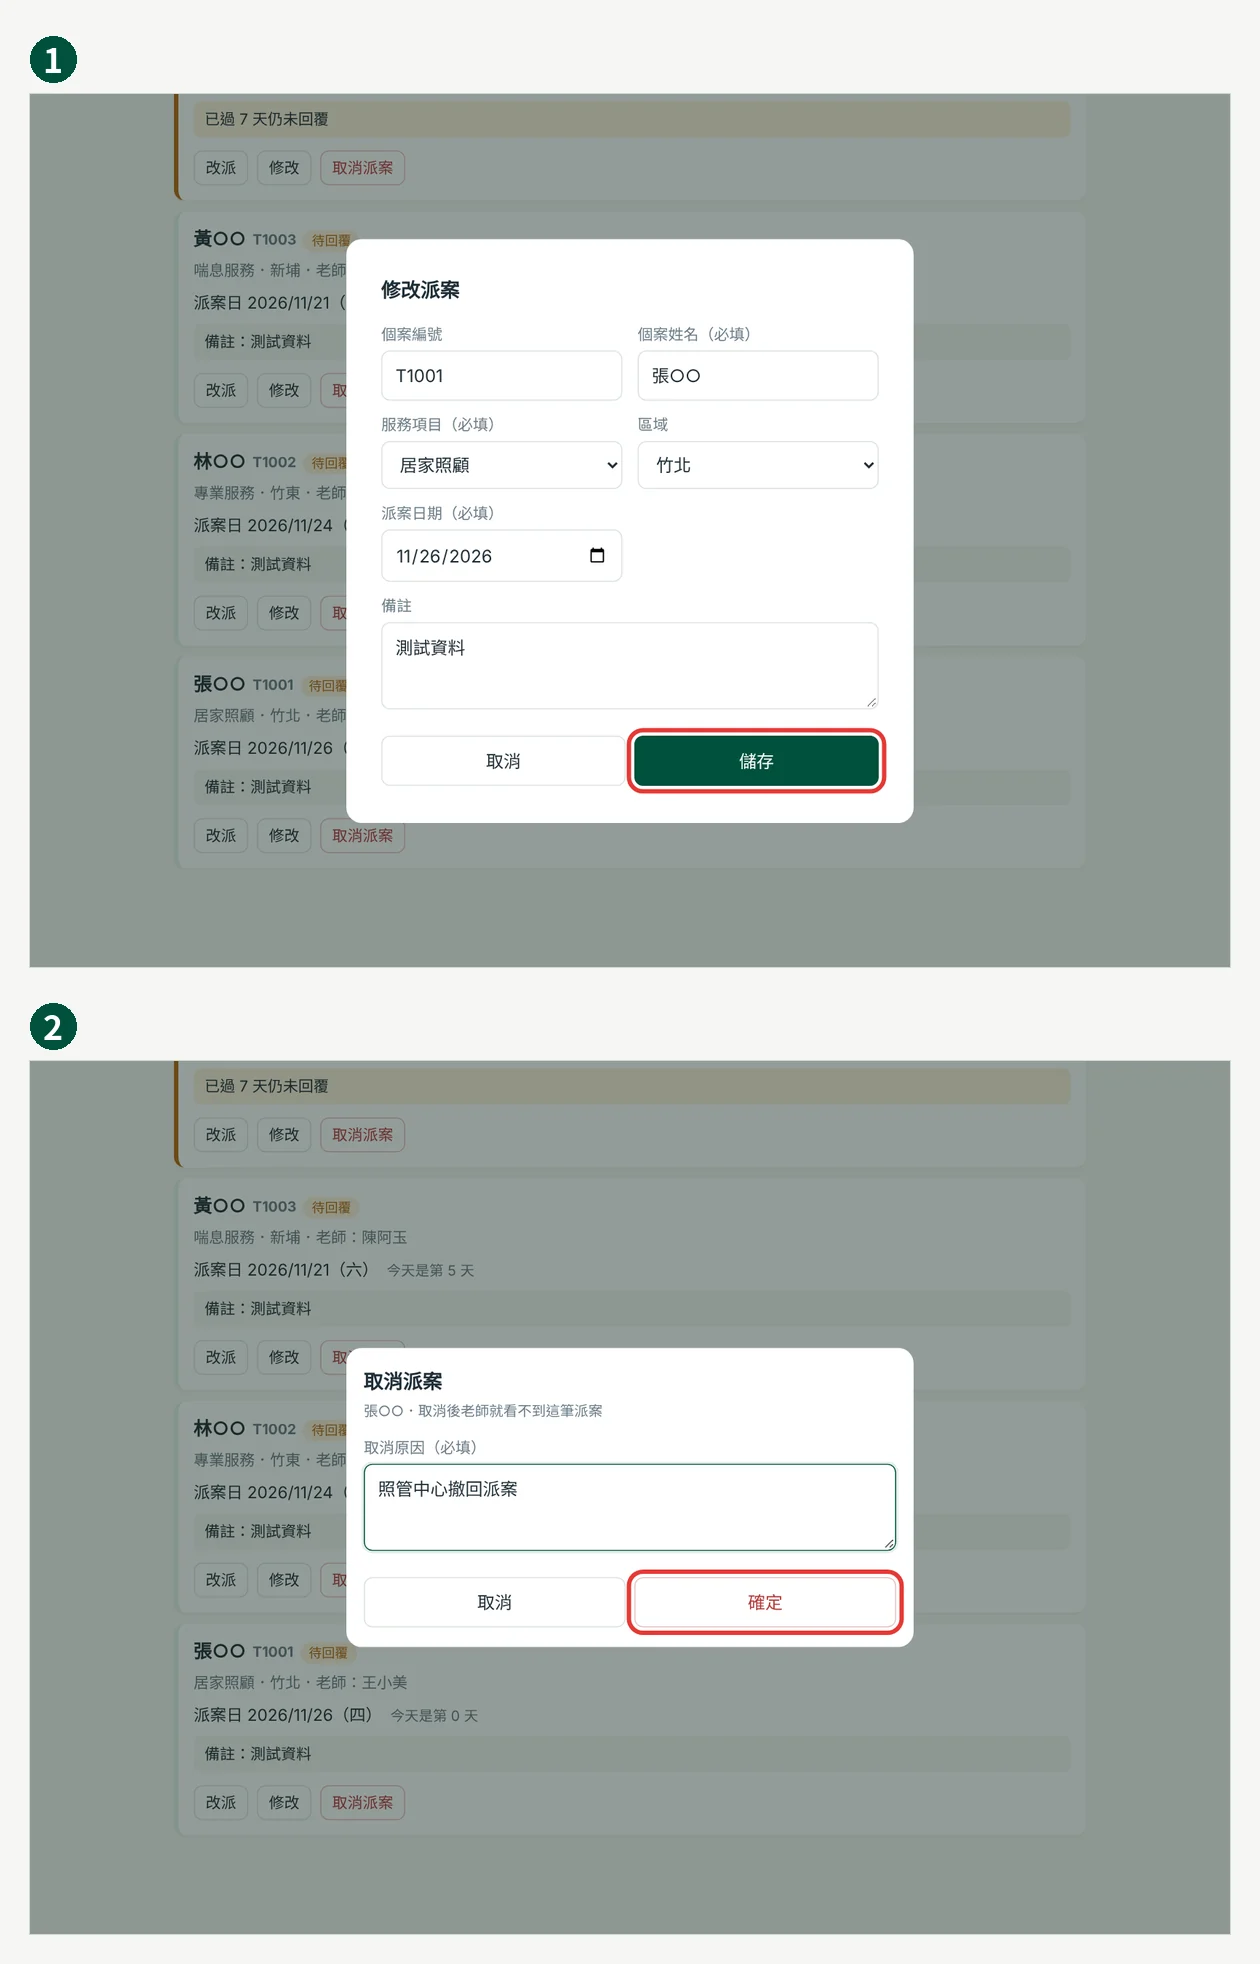
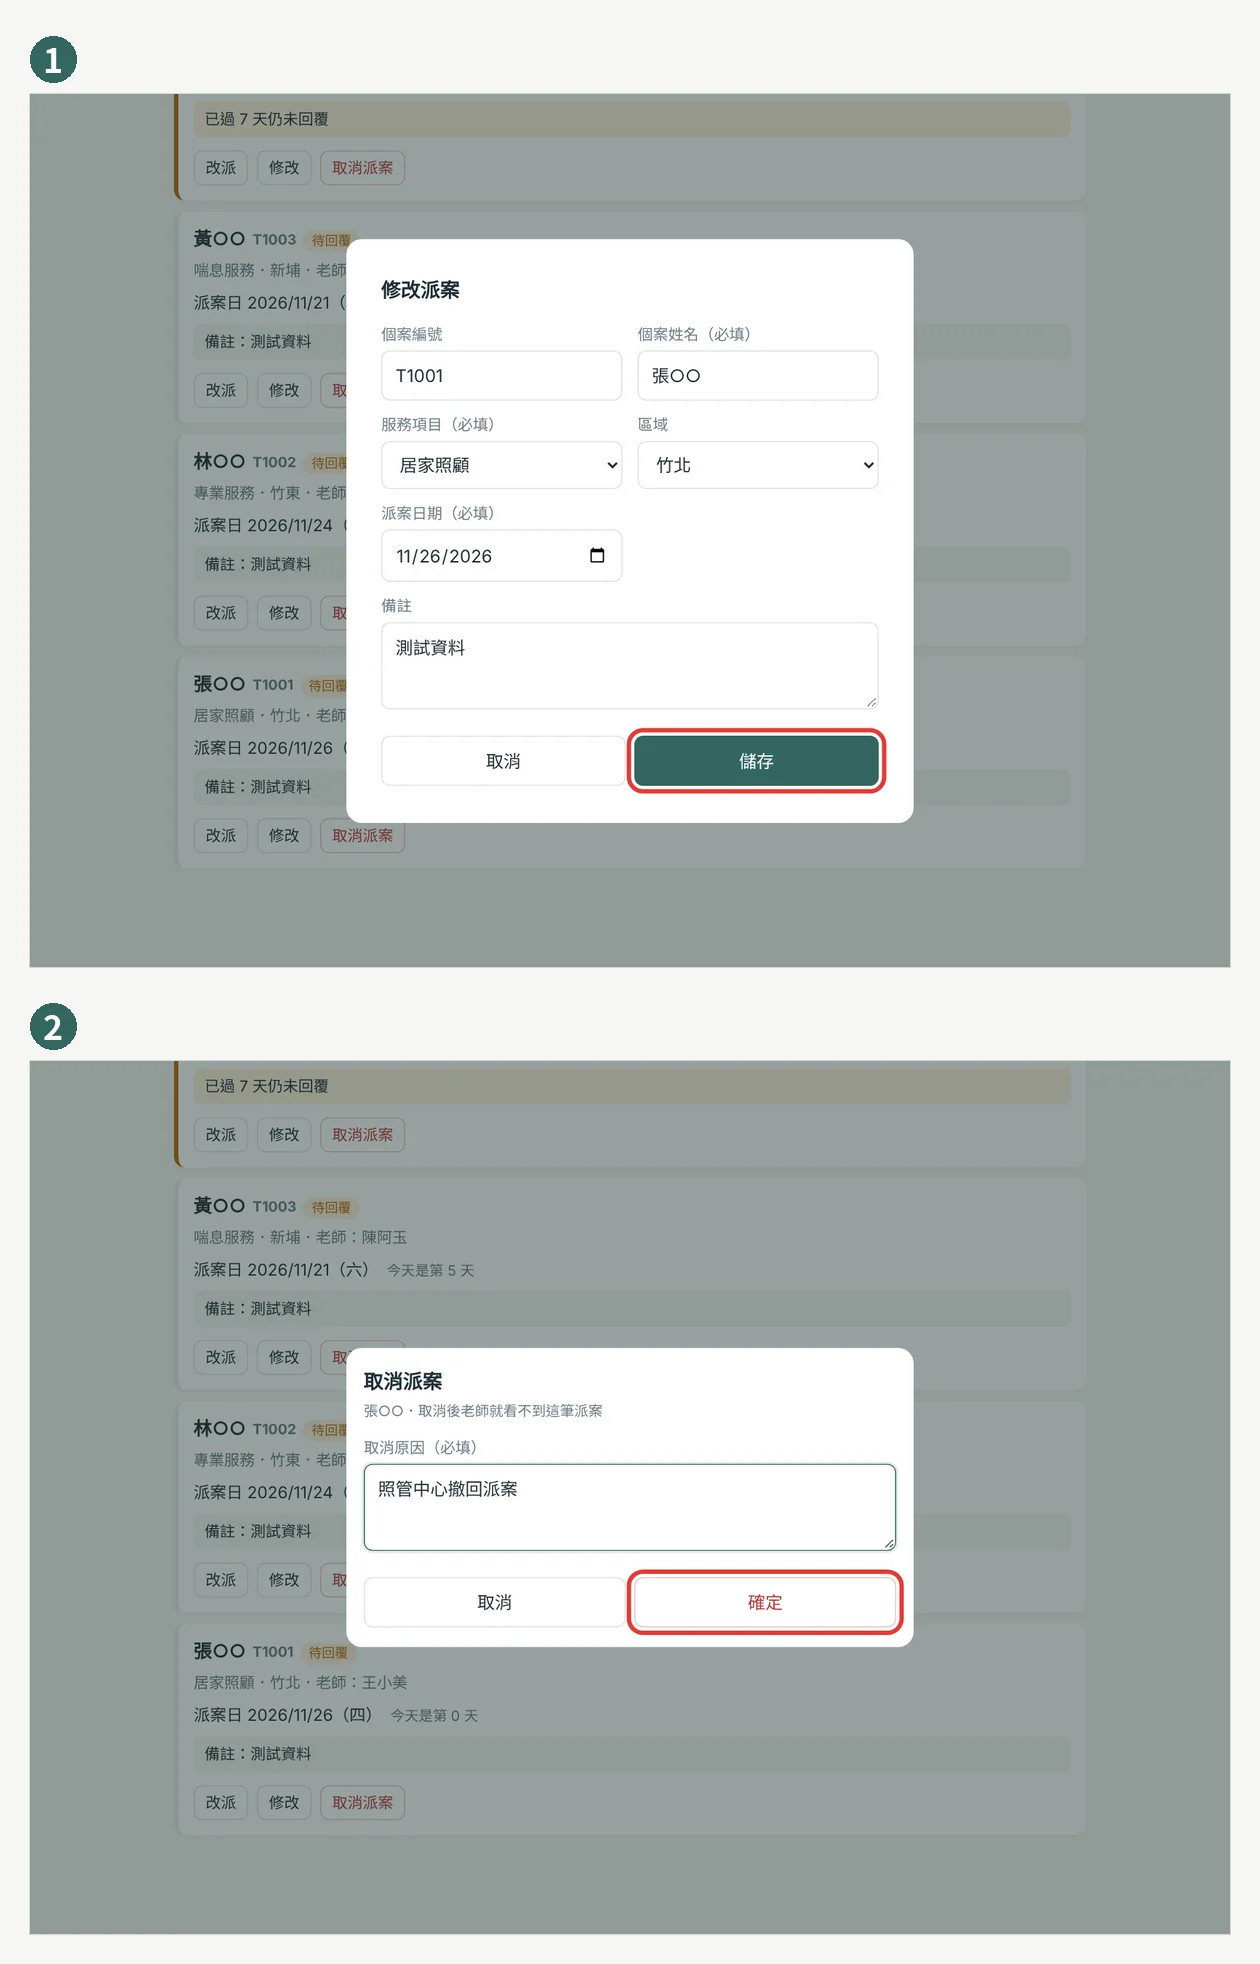
Add files via upload

Changed region(s): [[0.4952, 0.3727, 0.7119, 0.4038], [0.031, 0.4969, 0.0619, 0.5591], [0.031, 0.0, 0.0619, 0.0621]]

diff --git a/docs/style.css b/docs/style.css
@@ -1,10 +1,10 @@
 :root {
-  /* phoebe 企業色：墨綠 #01513c、棕 #723e27 */
-  --blue: #01513c;
-  --blue-d: #013d2d;
-  --blue-l: #e2eee8;
-  --brown: #723e27;
-  --brown-l: #f3e9e3;
+  /* phoebe 企業色：綠 #33665f、灰褐 #7f6c5e（取自 phoebe-logo） */
+  --blue: #33665f;
+  --blue-d: #264d47;
+  --blue-l: #e3ecea;
+  --brown: #7f6c5e;
+  --brown-l: #f1ece8;
   --bg: #f5f6f3;
   --card: #fff;
   --line: #dde3df;
@@ -32,20 +32,20 @@ button, input, select, textarea { font: inherit; }
   border-bottom: 3px solid var(--blue);
   padding: 8px 14px; padding-top: max(8px, env(safe-area-inset-top)); }
 .brand { font-weight: 700; letter-spacing: .5px; display: flex; align-items: center; gap: 8px; white-space: nowrap; }
-.brand img { height: 46px; width: auto; display: block; }
+.brand img { height: 42px; width: auto; display: block; }
 .brand span { border-left: 1px solid var(--line); padding-left: 10px; }
 .who { font-size: 14px; display: flex; gap: 8px; align-items: center; color: var(--text); }
 .who .role { background: var(--brown-l); color: var(--brown); border-radius: 10px; padding: 0 8px; font-size: 12px; }
 .who button, .who .help { background: transparent; color: var(--blue); border: 1px solid var(--blue); border-radius: 6px; padding: 2px 10px; cursor: pointer; font-size: 14px; text-decoration: none; line-height: 1.5; }
 .who .help { background: var(--blue-l); border-color: var(--blue-l); }
 @media (max-width: 420px) { .who .role { display: none; } .who { gap: 6px; } .brand span { display: none; } }
-@media (max-width: 380px) { .brand img { height: 40px; } .brand span { font-size: 15px; } }
+@media (max-width: 380px) { .brand img { height: 34px; } .brand span { font-size: 15px; } }
 
 main { max-width: 860px; margin: 0 auto; padding: 12px 12px 80px; }
 
 /* 登入 */
 .login { max-width: 360px; margin: 40px auto; background: var(--card); border-radius: var(--r); padding: 24px; box-shadow: 0 1px 3px rgba(0,0,0,.06); }
-.login .logo { display: block; width: 180px; margin: 0 auto 18px; }
+.login .logo { display: block; width: 100%; max-width: 280px; margin: 0 auto 18px; }
 .login h1 { font-size: 20px; margin: 0 0 4px; color: var(--blue); }
 .login p { margin: 0 0 20px; }
 
@@ -134,7 +134,7 @@ table.list th, table.list td { padding: 10px; border-bottom: 1px solid var(--lin
 table.list th { background: var(--brown-l); color: var(--brown); font-weight: 600; font-size: 14px; }
 
 /* 視窗 */
-.modal { position: fixed; inset: 0; background: rgba(15,35,28,.45); z-index: 50; display: flex; align-items: flex-end; justify-content: center; }
+.modal { position: fixed; inset: 0; background: rgba(25,45,42,.45); z-index: 50; display: flex; align-items: flex-end; justify-content: center; }
 @media (min-width: 560px) { .modal { align-items: center; } }
 .sheet { background: #fff; width: 100%; max-width: 520px; max-height: 92vh; overflow-y: auto;
   border-radius: 14px 14px 0 0; padding: 18px 16px calc(18px + env(safe-area-inset-bottom)); }

diff --git a/docs/manual/admin.html b/docs/manual/admin.html
@@ -3,17 +3,17 @@
 <head>
 <meta charset="utf-8">
 <meta name="viewport" content="width=device-width, initial-scale=1">
-<meta name="theme-color" content="#01513c">
+<meta name="theme-color" content="#33665f">
 <title>phoebe 派案追蹤 管理者操作手冊</title>
 <link rel="icon" href="../icon-192.png">
 <style>
-:root { --g:#01513c; --gd:#013d2d; --gl:#e2eee8; --b:#723e27; --bl:#f3e9e3; --bg:#f5f6f3; --line:#dde3df; --text:#1f2d36; --muted:#6b7c87; }
+:root { --g:#33665f; --gd:#264d47; --gl:#e3ecea; --b:#7f6c5e; --bl:#f1ece8; --bg:#f5f6f3; --line:#dde3df; --text:#1f2d36; --muted:#6b7c87; }
 * { box-sizing:border-box; }
 html { scroll-behavior:smooth; scroll-padding-top:80px; }
 body { margin:0; background:var(--bg); color:var(--text); font:17px/1.75 -apple-system,"PingFang TC","Microsoft JhengHei","Noto Sans TC",sans-serif; }
 a { color:var(--g); }
 header { position:sticky; top:0; z-index:10; background:#fff; border-bottom:3px solid var(--g); display:flex; align-items:center; gap:12px; padding:8px 16px; }
-header img { height:46px; }
+header img { height:42px; }
 header .t { font-weight:700; color:var(--g); border-left:1px solid var(--line); padding-left:12px; white-space:nowrap; overflow:hidden; text-overflow:ellipsis; }
 header .back { margin-left:auto; white-space:nowrap; font-size:14px; border:1px solid var(--g); border-radius:6px; padding:3px 10px; text-decoration:none; }
 .wrap { max-width:1180px; margin:0 auto; display:grid; grid-template-columns:240px 1fr; gap:28px; padding:20px 16px 80px; }

diff --git a/docs/manual/teacher.html b/docs/manual/teacher.html
@@ -3,17 +3,17 @@
 <head>
 <meta charset="utf-8">
 <meta name="viewport" content="width=device-width, initial-scale=1">
-<meta name="theme-color" content="#01513c">
+<meta name="theme-color" content="#33665f">
 <title>phoebe 派案追蹤 老師操作手冊</title>
 <link rel="icon" href="../icon-192.png">
 <style>
-:root { --g:#01513c; --gd:#013d2d; --gl:#e2eee8; --b:#723e27; --bl:#f3e9e3; --bg:#f5f6f3; --line:#dde3df; --text:#1f2d36; --muted:#6b7c87; }
+:root { --g:#33665f; --gd:#264d47; --gl:#e3ecea; --b:#7f6c5e; --bl:#f1ece8; --bg:#f5f6f3; --line:#dde3df; --text:#1f2d36; --muted:#6b7c87; }
 * { box-sizing:border-box; }
 html { scroll-behavior:smooth; scroll-padding-top:80px; }
 body { margin:0; background:var(--bg); color:var(--text); font:17px/1.75 -apple-system,"PingFang TC","Microsoft JhengHei","Noto Sans TC",sans-serif; }
 a { color:var(--g); }
 header { position:sticky; top:0; z-index:10; background:#fff; border-bottom:3px solid var(--g); display:flex; align-items:center; gap:12px; padding:8px 16px; }
-header img { height:46px; }
+header img { height:42px; }
 header .t { font-weight:700; color:var(--g); border-left:1px solid var(--line); padding-left:12px; white-space:nowrap; overflow:hidden; text-overflow:ellipsis; }
 header .back { margin-left:auto; white-space:nowrap; font-size:14px; border:1px solid var(--g); border-radius:6px; padding:3px 10px; text-decoration:none; }
 .wrap { max-width:1180px; margin:0 auto; display:grid; grid-template-columns:240px 1fr; gap:28px; padding:20px 16px 80px; }

diff --git a/docs/index.html b/docs/index.html
@@ -3,7 +3,7 @@
 <head>
 <meta charset="utf-8">
 <meta name="viewport" content="width=device-width, initial-scale=1, viewport-fit=cover">
-<meta name="theme-color" content="#01513c">
+<meta name="theme-color" content="#33665f">
 <meta name="apple-mobile-web-app-capable" content="yes">
 <meta name="apple-mobile-web-app-title" content="派案追蹤">
 <title>phoebe 派案進度追蹤</title>
